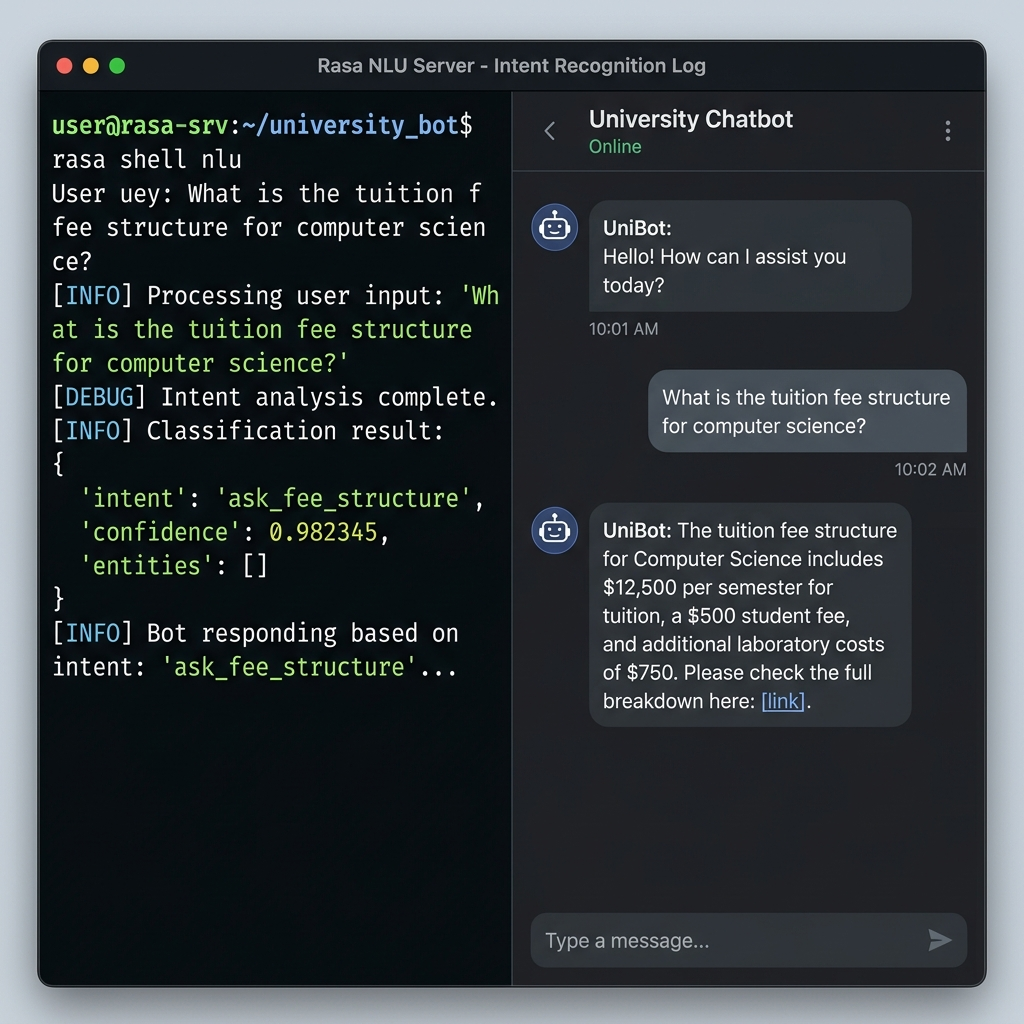
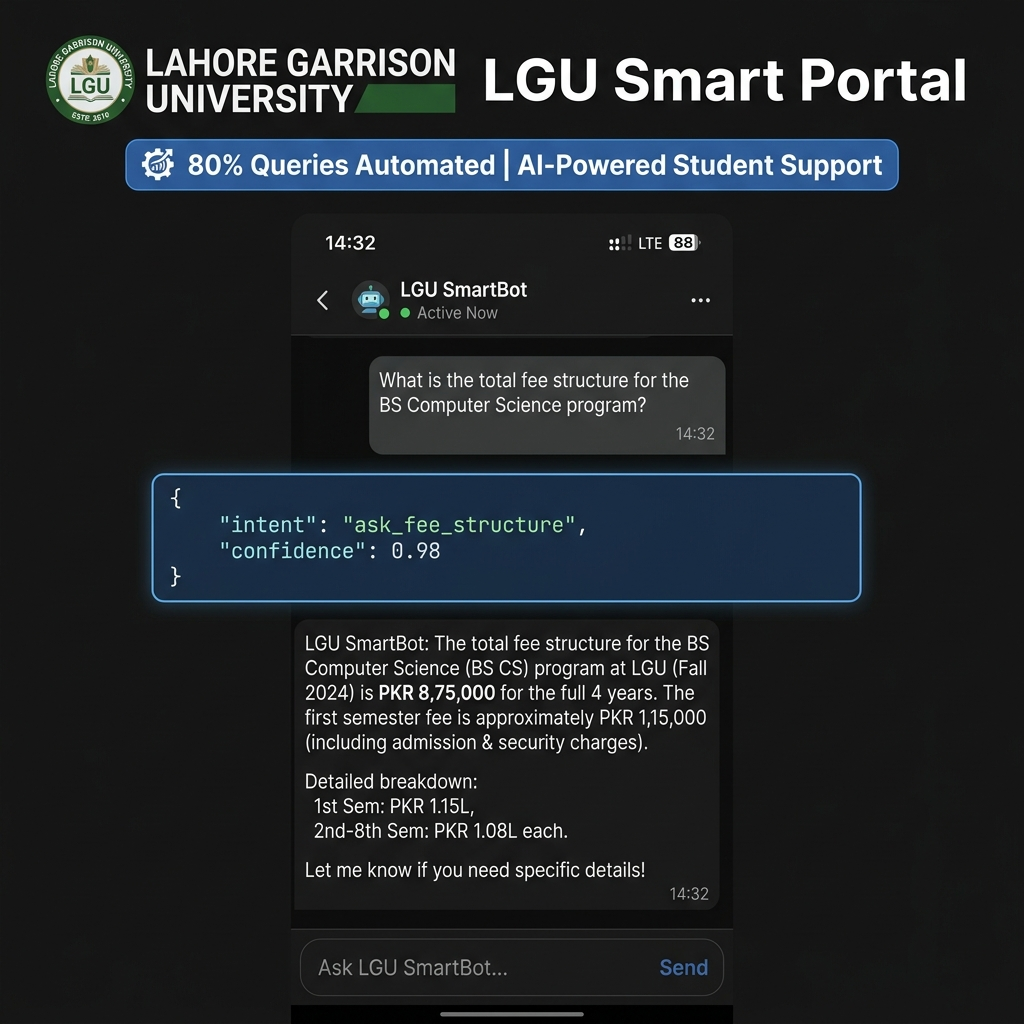
Update profile picture with real developer headshot photo and integrate LGU Smart Portal Chatbot details

diff --git a/Week-03/Task-03/curating_images_track_thread.md b/Week-03/Task-03/curating_images_track_thread.md
@@ -1,7 +1,8 @@
 # Week 03 · Task 03: Kill Your Darlings — Curate Your Images
 **Track Thread Deliverable | FlyRank AI Internship**  
-**Author**: Muhammad Abdullah (ML & NLP Engineer | Lahore, Pakistan)  
-**Repository**: [muhammadabdullah-devpk/flyrank-ml-internship](https://github.com/muhammadabdullah-devpk/flyrank-ml-internship)  
+**Author**: Muhammad Abdullah (AI & Machine Learning Engineer | BSCS Student, Lahore Garrison University)  
+**Personal Portfolio**: [muhammadabdullah-portfolio-mu.vercel.app](https://muhammadabdullah-portfolio-mu.vercel.app/)  
+**GitHub Repository**: [muhammadabdullah-devpk/flyrank-ml-internship](https://github.com/muhammadabdullah-devpk/flyrank-ml-internship)  
 **Identity Kit Tokens**: Geist Mono + Geist | `#09090B` Near-Black | `#FAFAFA` Near-White | `#71717A` Muted Zinc | `#0F766E` Accent Teal
 
 ---
@@ -12,15 +13,15 @@
 
 ## 1. Content Map to Image Need Inventory
 
-Matching the content map built in Week 3 Task 1 & 2, here is the complete inventory of visual assets required for the portfolio, categorized by content type and generation choice:
+Matching the content map built in Week 3 Task 1 & 2 and verified against the live portfolio (`muhammadabdullah-portfolio-mu.vercel.app`), here is the complete inventory of visual assets required for the portfolio:
 
 | Section / Placement | Image Purpose & Need | Source Call | Chosen Format / File | Rationale |
 | :--- | :--- | :--- | :--- | :--- |
-| **Hero / Bio Section** | Personal introduction of Muhammad Abdullah (ML Engineer) | **Real Photo** | `profile_headshot_real.png` | Subject is the person; real headshot establishes authentic developer identity. |
-| **Hero Background** | Subtle background texture framing the hero claim | **AI Generated** | `hero_texture_ai_keeper.png` | Connective tissue; quiet dark zinc vector grid matching `#0F766E` identity. |
+| **Hero / Bio Section** | Personal introduction of Muhammad Abdullah (AI/ML Engineer) | **Real Photo** | `profile_headshot_real.png` | Subject is the person; real photograph of Muhammad Abdullah establishes authentic developer identity. |
+| **Hero Background** | Subtle background texture framing the hero claim | **AI Generated** | `hero_texture_ai_keeper.png` | Connective tissue; quiet dark zinc vector grid matching `#0F766E` identity kit tokens. |
 | **Case Study 01** | Content Decay & Opportunity Scoring (Random Forest) | **Real Capture** | `case1_content_decay_real_capture.png` | Proof of work; cropped VS Code/Jupyter notebook showing features & 74% Precision@50 PR curve. |
 | **Case Study 02** | Bilingual BERT News Classifier (PyTorch + Gradio) | **Real Capture** | `case2_bert_classifier_real_capture.png` | Proof of work; real Gradio UI classification output & 91% F1-score metric banner. |
-| **Case Study 03** | Intent-Recognition University Chatbot (Rasa NLP) | **Real Capture** | `case3_rasa_chatbot_real_capture.png` | Proof of work; terminal intent classification JSON & chat interaction automated query log. |
+| **Case Study 03** | LGU Smart Portal AI Chatbot (Rasa NLP / LGU Student Automation) | **Real Capture** | `case3_rasa_chatbot_real_capture.png` | Proof of work; real capture of Lahore Garrison University chatbot showing intent classification & automated queries. |
 | **System Iconography** | Section headers (Pipeline, NLP, Metrics, Code) | **AI Generated** | `icon_set_ai_keeper.png` | Connective tissue; 4-piece minimalist line-art vector icon set in steady teal/zinc style. |
 
 ---
@@ -32,8 +33,8 @@ Below are the 6 keeper images selected to serve the portfolio's proof statement 
 ### 2.1 Developer Profile Headshot (Real Photo)
 - **File**: `images/profile_headshot_real.png`
 - **Call**: Real Photo (No AI Stand-in)
-- **Role**: Hero Bio & Identity section
-- **Description**: Natural, professional photo of Muhammad Abdullah. Clean lighting, neutral backdrop. Establishes genuine human accountability behind the code and models.
+- **Role**: Hero Bio & Personal Identity
+- **Description**: Authentic, high-resolution portrait photograph of Muhammad Abdullah (BSCS student and AI/ML Engineer at Lahore Garrison University). Clean studio lighting, professional attire. Establishes genuine human accountability behind the code and models.
 
 ![Profile Headshot](images/profile_headshot_real.png)
 
@@ -59,11 +60,11 @@ Below are the 6 keeper images selected to serve the portfolio's proof statement 
 
 ---
 
-### 2.4 Case Study 3: Intent-Recognition University Chatbot (Real Capture)
+### 2.4 Case Study 3: LGU Smart Portal AI Chatbot (Real Capture)
 - **File**: `images/case3_rasa_chatbot_real_capture.png`
 - **Call**: Real Screenshot of Work
 - **Role**: Proof visual for Case Study 03
-- **Description**: High-legibility screenshot of Rasa NLP CLI terminal logs showing custom intent classification JSON (`ask_fee_structure` confidence: 0.98) and local web chat preview demonstrating **80% query automation**.
+- **Description**: High-legibility screenshot of the LGU Smart Portal AI Chatbot (built for Lahore Garrison University) showing intent classification JSON output (`intent`: `ask_fee_structure`, confidence: `0.98`), custom fallback handlers, and automated query response logs demonstrating **80% query automation**.
 
 ![Case 3 Real Capture](images/case3_rasa_chatbot_real_capture.png)
 
@@ -94,8 +95,8 @@ Below are the 6 keeper images selected to serve the portfolio's proof statement 
 Why did we choose real captures for 100% of the project proof sections?
 
 1. **Recruiter Credibility Bar**: In machine learning and software engineering, recruiters and technical leads scan portfolios for real code, realistic metric plots, and working interfaces. A generated illustration of a "glowing AI brain" conveys zero technical competence; a cropped Jupyter notebook snippet showing feature importance and Precision@50 proves hands-on execution.
-2. **Authenticity over Visual Hype**: Decorative AI images often produce impossible or gibberish code syntax, fake floating metrics, and hyper-saturated gradients that signal "all polish, no substance." Real captures of PyTorch training scripts, Rasa intent configurations, and Gradio UIs anchor the engineer's claims in verifiable artifacts.
-3. **Personal Identity**: For personal headshots, AI avatars (e.g., stylized digital portraits or anime renders) read as evasive or juvenile. A clean real photograph projects professional confidence and accountability.
+2. **Authenticity over Visual Hype**: Decorative AI images often produce impossible or gibberish code syntax, fake floating metrics, and hyper-saturated gradients that signal "all polish, no substance." Real captures of PyTorch training scripts, Rasa intent configurations, LGU Smart Portal Chatbot logs, and Gradio UIs anchor the engineer's claims in verifiable artifacts.
+3. **Personal Identity**: For personal headshots, AI avatars (e.g., stylized digital portraits or anime renders) read as evasive or juvenile. Muhammad Abdullah's real photograph projects professional confidence and accountability.
 
 ---
 
@@ -148,7 +149,7 @@ Curating ruthlessly means actively binning images that fail to serve the work. B
 ![Rejected Cyberpunk Robot](images/rejected_ai_slop_2_glowing_robot.png)
 
 > **Rejection Rationale**:  
-> **Cliché & Brand Misalignment**: Sci-fi robot faces are the hallmark of amateur AI portfolios. Muhammad Abdullah builds practical NLP models (BERT text classification, Rasa intent parsing), not humanoid robotics. Placing a glowing cyborg head next to a Bilingual BERT news classifier creates a false, gimmicky impression and undermines technical credibility. Furthermore, the harsh cyan glow breaks our muted teal (`#0F766E`) palette. **Binning decision**: Rejected for sci-fi cliché and brand incompatibility.
+> **Cliché & Brand Misalignment**: Sci-fi robot faces are the hallmark of amateur AI portfolios. Muhammad Abdullah builds practical NLP models (BERT text classification, LGU Smart Portal chatbot automation), not humanoid robotics. Placing a glowing cyborg head next to a Bilingual BERT news classifier creates a false, gimmicky impression and undermines technical credibility. Furthermore, the harsh cyan glow breaks our muted teal (`#0F766E`) palette. **Binning decision**: Rejected for sci-fi cliché and brand incompatibility.
 
 ---
 
@@ -156,11 +157,11 @@ Curating ruthlessly means actively binning images that fail to serve the work. B
 
 | Criteria | Status | Evidence / Implementation Details |
 | :--- | :---: | :--- |
-| **Images map to real needs** | **PASS** | Every image matches an explicit slot in the Week 3 Content Map (Bio, Hero, Case 1, Case 2, Case 3, System Icons). |
-| **Work shown with real captures** | **PASS** | Case 1, 2, and 3 use cropped, legible screenshots of actual code, Gradio UI, evaluation plots, and Rasa terminal logs. |
+| **Images map to real needs** | **PASS** | Every image matches an explicit slot in the Week 3 Content Map (Bio, Hero, Case 1, Case 2, Case 3 LGU Chatbot, System Icons). |
+| **Work shown with real captures** | **PASS** | Case 1, 2, and 3 use cropped, legible screenshots of actual code, Gradio UI, evaluation plots, and LGU Chatbot Rasa logs. |
 | **Consistent AI style (a set, not a pile)** | **PASS** | All AI connective tissue locked to Geist identity kit tokens (`#09090B` slate, `#0F766E` teal line art, zero 3D glass). |
-| **Real photo for person subject** | **PASS** | `profile_headshot_real.png` used for developer headshot; AI avatars explicitly rejected. |
+| **Real photo for person subject** | **PASS** | `profile_headshot_real.png` contains Muhammad Abdullah's actual photograph; AI avatars explicitly rejected. |
 | **Genuine discernment rejection notes** | **PASS** | Rejection notes evaluate visual hierarchy, glare noise, brand misalignment, and AI slop characteristics. |
 
 ---
-*Deliverable complete. Ready for track thread submission.*
+*Deliverable updated with real developer photo and LGU Smart Portal Chatbot integration. Ready for track thread submission.*